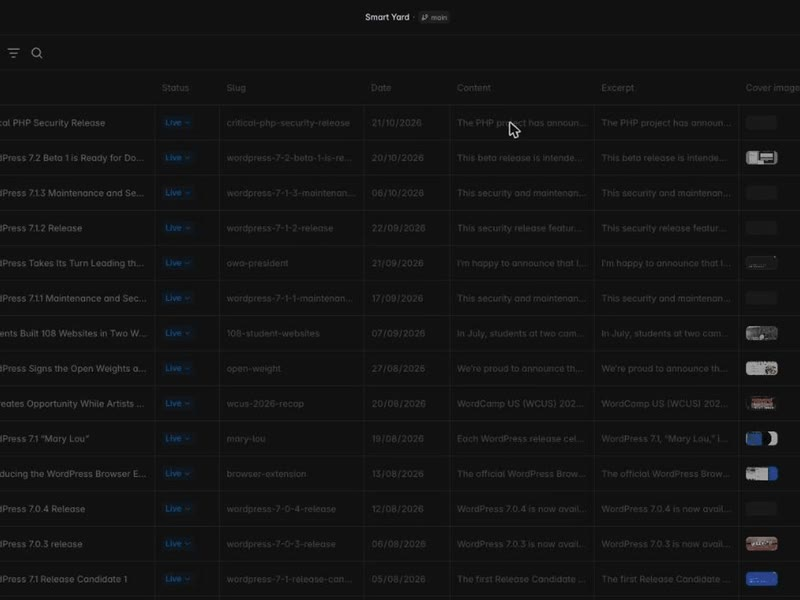
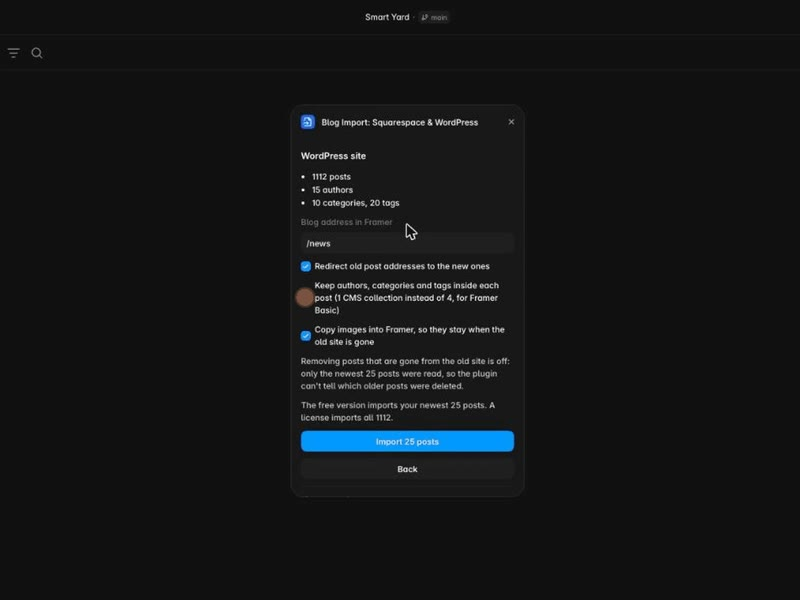
Blog Import page: poster shows the plugin, guide list not indented

diff --git a/blog-import/index.md b/blog-import/index.md
@@ -37,7 +37,7 @@ The newest 25 posts import free, so you can see the result on your own blog firs
 
 ## Guides {#guides}
 
-<ul class="guide-list">
+<ul class="guide-list" style="padding-left:0">
 {% assign guides = site.pages | where: "og_image", "/og-blog-import.png" | sort: "title" %}{% for g in guides %}{% if g.url contains '/guides/' %}
   <li><a href="{{ g.url }}"><span>{{ g.title }}</span><svg><use href="#i-arrow"/></svg></a></li>
 {% endif %}{% endfor %}
